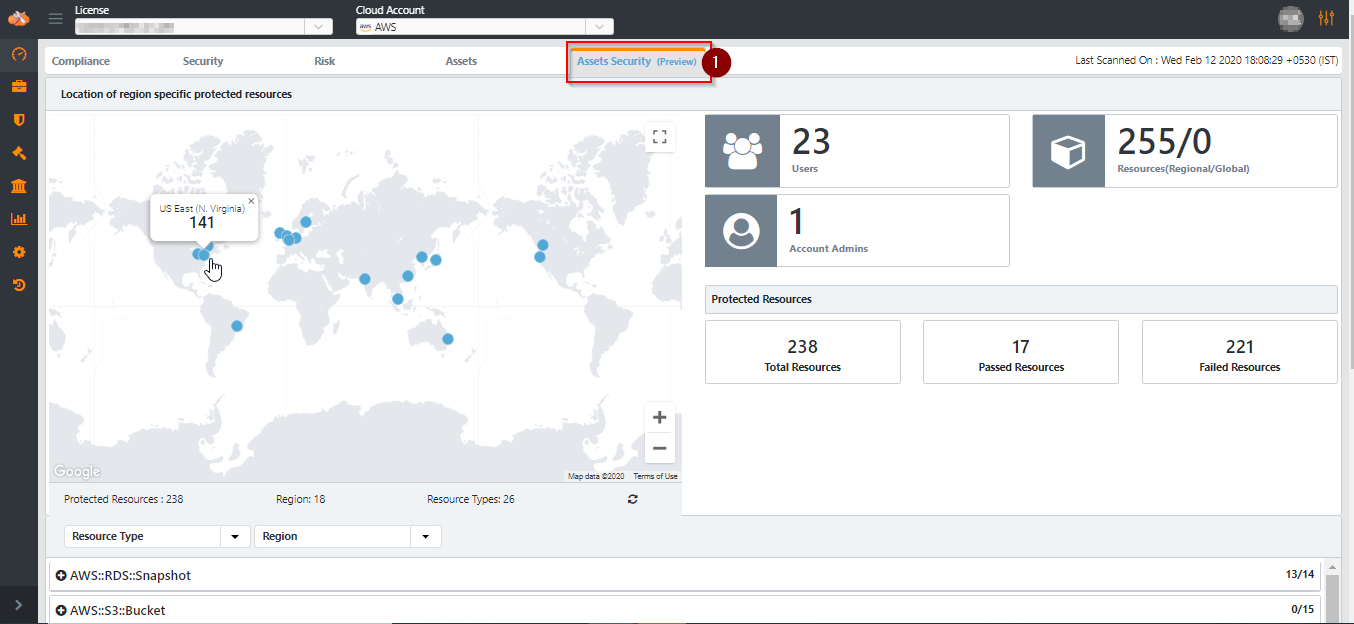
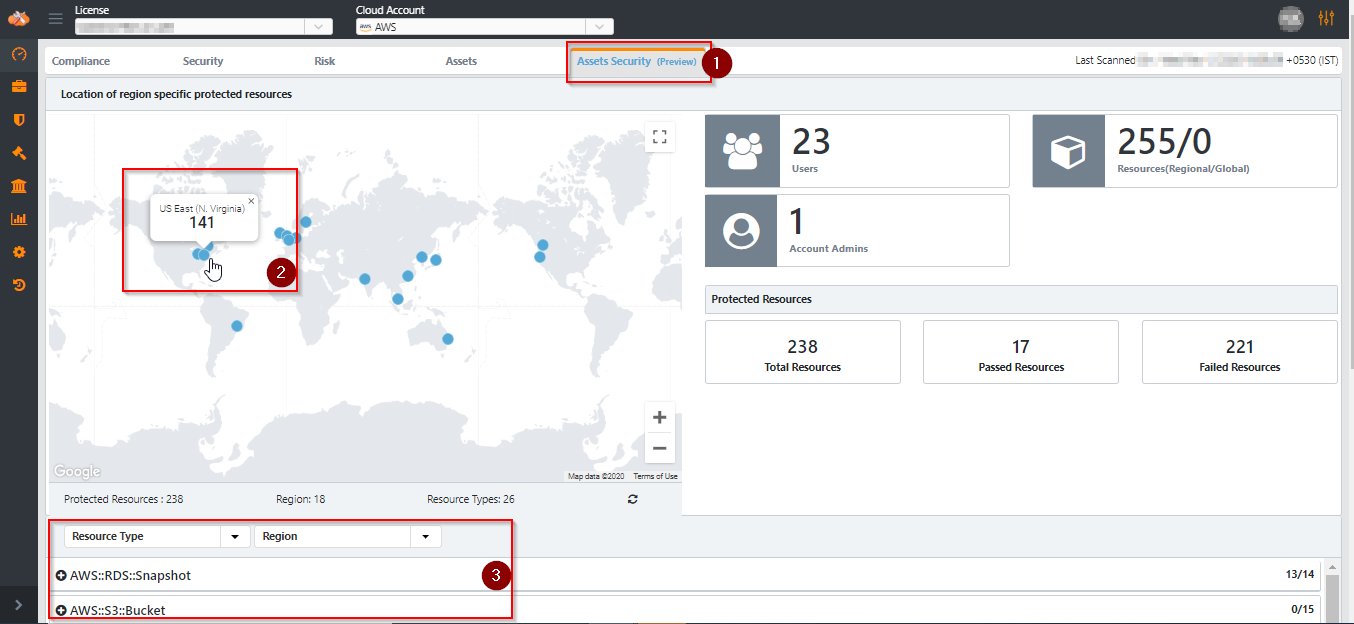
Task 13517 : Updated user guide and Remediation

Changed region(s): [[0.031, 0.8221, 0.4032, 1.0], [0.0931, 0.2436, 0.2482, 0.4872], [0.8375, 0.0913, 0.9616, 0.1218]]

diff --git a/docs/onboardingGuide/office365Subscription.md b/docs/onboardingGuide/office365Subscription.md
@@ -380,7 +380,7 @@ Follow [link](https://docs.microsoft.com/en-us/office365/admin/security-and-comp
 
 
 Sign into your Office 365 portal (e.g. <https://outlook.office.com/mail/inbox>)
-as user created above [step](.././onboardingOffice365Subscription/#create-office-365-user)
+as user created above [step](.././office365Subscription/#create-office-365-user)
 
 1. Choose **My Account Settings**
 	![My Account Settings](.././images/onboardingOffice365Subscription/My_Account_Settings.png#thumbnail)
@@ -511,10 +511,15 @@ Switch to Azure AD with the Azure Subscription with pre-requisite access.
 Note: Contact Cloudneeti Team for ArtifactsName, DataCollectorVersion and
 ArtifactsAccessKey
 8. The script will execute and prompt you for below details:
-   Cloudneeti API key </br>
-   Cloudneeti Data collector application secret </br>
-   Cloudneeti Office 365 data collector artifacts storage access Key </br>
-   Office 365 App Password or User Password</br>
+   - Cloudneeti API key </br>
+   - Cloudneeti Data collector application secret </br>
+   - Cloudneeti Office 365 data collector artifacts storage access Key </br>
+   - User Password or Office 365 App Password  
+    - User Password </br>
+      Advanced security configuration done using **User Password** will enable all 44 policies listed [here.](.././office365Subscription/#advanced-security-configuration))
+    - Office 365 App Password </br>
+      Advanced security configuration done using **Office 365 App Password** will **not enable 19 policies** of category M365 - Identity listed [here.](.././office365Subscription/#advanced-security-configuration))
+   
 9. This will create a runbook inside automation account
 
 ### 3.3 Apply delete lock
@@ -584,10 +589,12 @@ Microsoft graph permission DeviceManagementConfiguration.Read.All is required to
 
 ### Advanced security configuration
 
-The advanced security policy data collector enables the following 19 policies as
+The advanced security policy data collector enables the following 43 policies as
 available in the Center for Internet Security (CIS) Microsoft 365 benchmark
 (Reference
 [here](https://www.cloudneeti.com/2019/01/assure-microsoft-365-security-and-compliance-with-cloudneeti/)).
+
+Advanced security configuration done using Office 365 App Password will not enable 19 policies of category M365 - Identity listed in below table.
 
 | **Control No** | **Policy Title**                                                                                                                                                    | **Category**                     |
 |---------------|--------------------------------------------------------------------------------------------------------------------------------------------------------------------|----------------------------------|
@@ -610,11 +617,33 @@ available in the Center for Internet Security (CIS) Microsoft 365 benchmark
 | M009.03         | 17. (L1) Ensure the spoofed domains report is reviewed weekly                                                                                                        | Auditing                         |
 | M009.04           | 18. (L1) Ensure user role group changes is reviewed at least every week                                                                                            | Auditing                         |
 | M010.1           | 19. (L2) Ensure document sharing is being controlled by domains with whitelist or blacklist                                                                         | Storage                          |
-|   M500.03     |  Ensure modern authentication for Exchange Online is enabled |M365 - Account / Authentication |
-|   M700.03     | Use custom sensitive infromation type classification for information protection | M365 - Data Management |
-|   M800.10     |  Ensure MailTips are enabled for end users |M365 - Email Security / Exchange Online |
-|  M800.11      |  Ensure basic authentication for Exchange Online is disabled |M365 - Email Security / Exchange Online |
-|    M010.2    |  Block OneDrive for Business sync from unmanaged devices |M365 - Storage |
+|   M500.03     |  20. Ensure modern authentication for Exchange Online is enabled |M365 - Account / Authentication |
+|   M700.03     | 21. Use custom sensitive infromation type classification for information protection | M365 - Data Management |
+|   M800.10     |  22. Ensure MailTips are enabled for end users |M365 - Email Security / Exchange Online |
+|  M800.11      |  23. Ensure basic authentication for Exchange Online is disabled |M365 - Email Security / Exchange Online |
+|    M010.2    |  24. Block OneDrive for Business sync from unmanaged devices |M365 - Storage |
+| M400.32 | Ensure that 'Number of methods required to reset' is set to '2'                                                      | M365 - Identity |
+| M400.33 | Ensure that 'Number of days before users are asked to re-confirm their authentication information' is not set to '0' | M365 - Identity |
+| M400.34 | Ensure that 'Notify all admins when other admins reset their password?' is set to 'Yes'                              | M365 - Identity |
+| M400.35 | Ensure that 'Notify users on password resets?' is set to 'Yes'                                                       | M365 - Identity |
+| M400.36 | Ensure that 'Users can consent to apps accessing company data on their behalf' is set to 'No'                        | M365 - Identity |
+| M400.37 | Ensure that 'Users can add gallery apps to their Access Panel' is set to 'No'                                        | M365 - Identity |
+| M400.38 | Ensure that 'Users can register applications' is set to 'No'                                                         | M365 - Identity |
+| M400.39 | Ensure that 'Guest user permissions are limited' is set to 'Yes'                                                     | M365 - Identity |
+| M400.40 | Ensure that 'Members can invite' is set to 'No'                                                                      | M365 - Identity |
+| M400.41 | Ensure that 'Guests can invite' is set to 'No'                                                                       | M365 - Identity |
+| M400.42 | Ensure that 'Restrict access to Azure AD administration portal' is set to 'Yes'                                      | M365 - Identity |
+| M400.43 | Ensure that 'Self-service group management enabled' is set to 'No'                                                   | M365 - Identity |
+| M400.44 | Ensure that 'Users can create security groups' is set to 'No'                                                        | M365 - Identity |
+| M400.45 | Ensure that 'Users who can manage security groups' is set to 'None'                                                  | M365 - Identity |
+| M400.46 | Ensure that 'Users can create Office 365 groups' is set to 'No'                                                      | M365 - Identity |
+| M400.47 | Ensure that 'Users who can manage Office 365 groups' is set to 'None'                                                | M365 - Identity |
+| M400.48 | Ensure that 'Enable All Users group' is set to 'Yes'                                                                 | M365 - Identity |
+| M400.49 | Ensure that 'Require Multi-Factor Auth to join devices' is set to 'Yes'                                              | M365 - Identity |
+| M400.50 | Ensure the Azure AD 'Risky sign-ins' report is reviewed at least weekly                                              | M365 - Identity |
+
+
+
 
 
 <div class="policy-json-code">

diff --git a/docs/releaseNotes/2020.md b/docs/releaseNotes/2020.md
@@ -14,8 +14,8 @@
 
     -   **Release Notification:** Email notification to all users on new release.
 
-    -   **AWS Remediation:** Support for Cloudneeti Remediation Framework different
-        region deployment.
+    -   **AWS Remediation:** Support for deploying Cloudneeti Remediation Framework in different
+        region.
 
     -   **Auto Remediation:** Added audit logs for Azure and AWS auto remediation.
 
@@ -25,17 +25,9 @@
 
         -   Extra categories are visible in the Baseline benchmark list
 
-        -   Other resources in a policy are not getting remediated if any one
-            resource fails to remediate due to some reason
+        -   Subsequent AWS resources should get remediated in case one of the resources remediation fails from AWS
 
-        -   UI/UX: Msal.idtoken is accepted by cloudneeti api endpoints even after
-            it is expired
-
-        -   Resource Not Found in CreatePrivateBenchmarkSummaryActivity (QA, Prod)
-
-        -   Exception in RBACCustomerPolicySummaryActivity
-
-        -   Missing TTL in AggregatedCISOTrendData AggregatedCISODashboard
+        -   Authentication token enhancements
 
 3.   **Policies & Benchmarks**
 
@@ -99,7 +91,7 @@
     | Azure - Storage and Databases | Ensure that encryption of sensitive data is enabled for Azure Data Lake Storage Gen1 |
     | Azure - Storage and Databases | Ensure that diagnostics log is enabled for Azure Data Lake Storage Gen1              |
 
-    -   Added following 18 M365 IAM policies
+    -   Added following 19 M365 IAM policies
         To get data for these policies, please provide version 1.4 while executing the script for upgrade or creation of Office 365 advance security configuration.
 
         - References 
@@ -108,21 +100,25 @@
 
         | **Category**                 | **Policy Title**                                                                                                     |
         |------------------------------|----------------------------------------------------------------------------------------------------------------------|
-        | Identity & Access Management | Ensure that 'Number of methods required to reset' is set to '2'                                                      |
-        | Identity & Access Management | Ensure that 'Number of days before users are asked to re-confirm their authentication information' is not set to '0' |
-        | Identity & Access Management | Ensure that 'Notify users on password resets?' is set to 'Yes                                                        |
-        | Identity & Access Management | Ensure that 'Notify all admins when other admins reset their password?' is set to 'Yes'                              |
-        | Identity & Access Management | Ensure that 'Users can consent to apps accessing company data on their behalf' is set to 'No'                        |
-        | Identity & Access Management | Ensure that 'Users can add gallery apps to their Access Panel' is set to 'No'                                        |
-        | Identity & Access Management | Ensure that 'Users can register applications' is set to 'No'                                                         |
-        | Identity & Access Management | Ensure that 'Guest user permissions are limited' is set to 'Yes'                                                     |
-        | Identity & Access Management | Ensure that 'Members can invite' is set to 'No'                                                                      |
-        | Identity & Access Management | Ensure that 'Guests can invite' is set to 'No'                                                                       |
-        | Identity & Access Management | Ensure that 'Restrict access to Azure AD administration portal' is set to 'Yes'                                      |
-        | Identity & Access Management | Ensure that 'Self-service group management enabled' is set to 'No'                                                   |
-        | Identity & Access Management | Ensure that 'Users can create security groups' is set to 'No'                                                        |
-        | Identity & Access Management | Ensure that 'Users who can manage security groups' is set to 'None'                                                  |
-        | Identity & Access Management | Ensure that 'Users can create Office 365 groups' is set to 'No'                                                      |
+        | Identity | Ensure that 'Number of methods required to reset' is set to '2'                                                      |
+        | Identity | Ensure that 'Number of days before users are asked to re-confirm their authentication information' is not set to '0' |
+        | Identity | Ensure that 'Notify users on password resets?' is set to 'Yes                                                        |
+        | Identity | Ensure that 'Notify all admins when other admins reset their password?' is set to 'Yes'                              |
+        | Identity | Ensure that 'Users can consent to apps accessing company data on their behalf' is set to 'No'                        |
+        | Identity | Ensure that 'Users can add gallery apps to their Access Panel' is set to 'No'                                        |
+        | Identity | Ensure that 'Users can register applications' is set to 'No'                                                         |
+        | Identity | Ensure that 'Guest user permissions are limited' is set to 'Yes'                                                     |
+        | Identity | Ensure that 'Members can invite' is set to 'No'                                                                      |
+        | Identity | Ensure that 'Guests can invite' is set to 'No'                                                                       |
+        | Identity | Ensure that 'Restrict access to Azure AD administration portal' is set to 'Yes'                                      |
+        | Identity | Ensure that 'Self-service group management enabled' is set to 'No'                                                   |
+        | Identity | Ensure that 'Users can create security groups' is set to 'No'                                                        |
+        | Identity | Ensure that 'Users who can manage security groups' is set to 'None'                                                  |
+        | Identity | Ensure that 'Users can create Office 365 groups' is set to 'No'                                                      |
+        | Identity | Ensure that 'Users who can manage Office 365 groups' is set to 'None'                                                      |
+        | Identity | Ensure that 'Enable All Users group' is set to 'Yes'                                                      |
+        | Ensure that 'Require Multi-Factor Auth to join devices' is set to 'Yes'                                                      |
+        | Identity | Ensure the Azure AD 'Risky sign-ins' report is reviewed at least weekly                                                      |
 
     -   Updated following 115 Azure security center policies to support Azure
         Management Group level scope and show No Data as default behavior.

diff --git a/docs/remediation/awsRemediation.md b/docs/remediation/awsRemediation.md
@@ -100,6 +100,8 @@ STEP 1: Provision Remediation framework on same or different AWS Account
 4.  Configure AWS account where remediation framework is to be deployed
 
         aws configure
+<!-- 
+        TODO : confirm region -->
 
 5.  Deploy remediation framework in AWS account which need to be remediated.
 
@@ -142,6 +144,7 @@ STEP 1: Provision Remediation framework on same or different AWS Account
 
     b. Deploy remediation framework in AWS account which will be used as the remediator in multi-mode: 
 
+    <!-- TODO : Simplify the below stmt -->
     (Optional if you have provisioned the remediation framework earlier)
 
         bash deploy-remediation-framework.sh -a <12-digit-account-id> -e <environment-prefix> -v <1.0>
@@ -170,6 +173,9 @@ STEP 1: Provision Remediation framework on same or different AWS Account
     b.  Execute below command to configure your aws account where remediation is to be enabled: (Enter the requested values)
 
         aws configure
+
+        
+    <!-- TODO : confirm region same as remediation framework deployed in step 2 or 3 -->
 
     c.  Deploy automatic remediation invoker resources and associated role on AWS account which is to be remediated.
 

diff --git a/docs/userGuide/dashboards.md b/docs/userGuide/dashboards.md
@@ -50,3 +50,15 @@ dashboard that provides insights into the total number of resources, users, AD
 admins and other metrics. By clicking on the bar (2) in the chart, the map shows
 locations (3) of this resource category.
 	![Assets_Dashboard](.././images/userGuide/Assets_Dashboard.png#thumbnail)
+
+
+## Assets Security (Preview)
+
+By clicking on the **Assets Security** tab (1) on the top, users gain access to an assets
+dashboard that provides insights into the resources compliance status. By clicking on the region (2) in the chart, list of resources listed gropued in resource category (3) for selected region. 
+
+![Assets_Dashboard](.././images/userGuide/Assets_Security_Dashboard.png#thumbnail)
+
+Resource compliance status can be seen by expanding resource category (1) and clicking on a resource (2) for resource related policies (3)
+
+![Assets_Dashboard](.././images/userGuide/Assets_Security_Dashboard_ResourceDetails.png#thumbnail)

diff --git a/docs/onboardingGuide/azureQuickWins.md b/docs/onboardingGuide/azureQuickWins.md
@@ -13,6 +13,8 @@ Remediation policies from **Azure Security center, Logging and Monitoring** and 
 
 Access Needed on Subscription: **Contributor**
 
+Note : Please note that it is advised to have only one ASC initiative. If there are multiple initiatives created, Cloud account compliance results in Cloudneeti may vary. 
+
 ## 6.1 Configure ASC default policies 
 
 Configure ASC policies to remediate policies [listed here ](.././azureQuickWins/#configure-azure-security-center-policies-azure-security-center) using below steps.

diff --git a/docs/remediation/awsDecommissionofRemediation.md b/docs/remediation/awsDecommissionofRemediation.md
@@ -53,6 +53,8 @@ Login to Cloudneeti portal with **License Admin** role
 
 Decommission of remediation framework take place in two phases.
 
+<!-- Delete deployment bucket using AWS console -->
+
 ### Remove remediation configuration of multi-account remediation
 
 1.  Open bash
